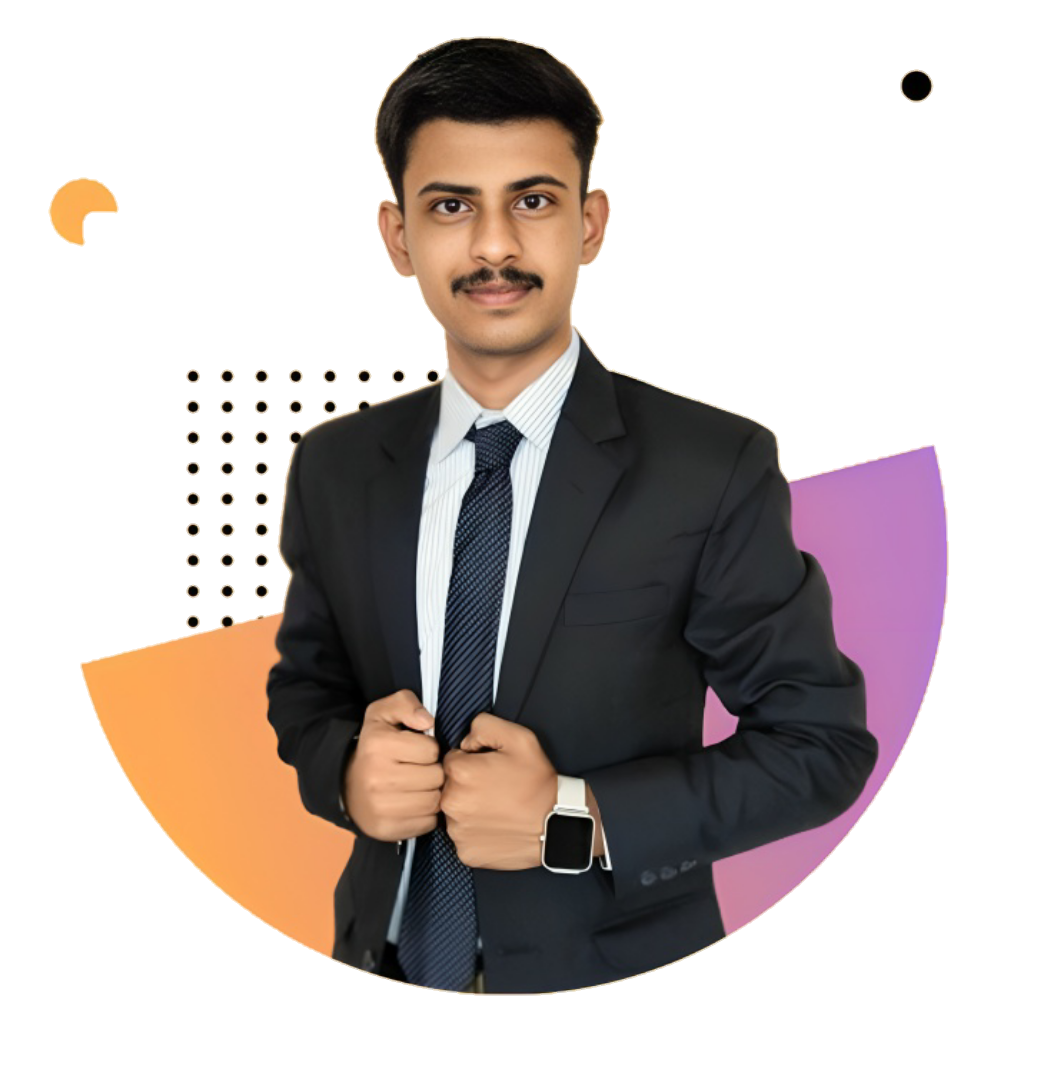
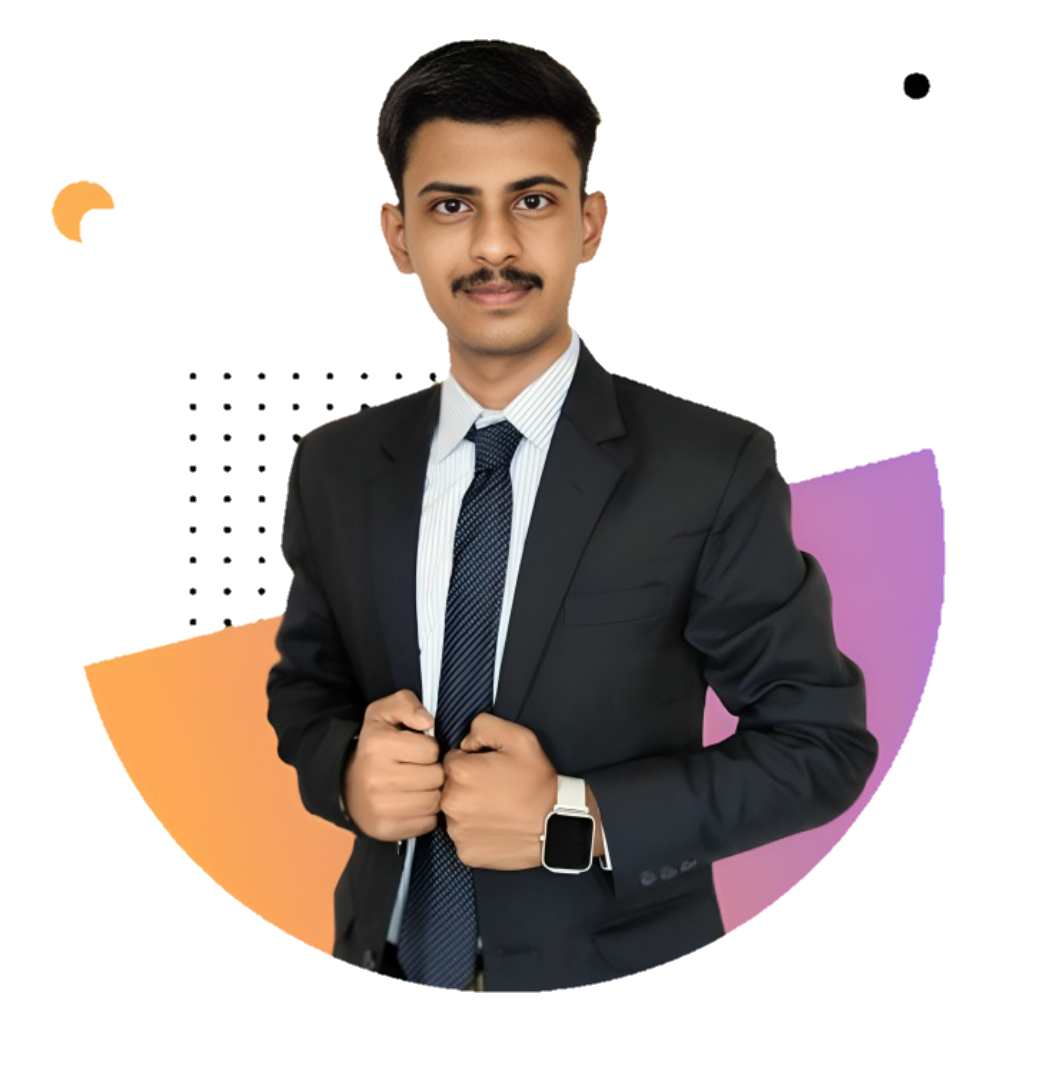
.

diff --git a/src/Components/Header.jsx b/src/Components/Header.jsx
@@ -1,27 +1,52 @@
-import React from 'react'
+import React, { useState } from 'react';
 import { FaBarsStaggered } from "react-icons/fa6";
+import { IoIosArrowForward } from "react-icons/io";
+import { FaGithub } from "react-icons/fa6";
+import { FaLinkedin } from "react-icons/fa";
+import { FaXTwitter } from "react-icons/fa6";  
+import { FaInstagram } from "react-icons/fa";
 function Header() {
+    const [menu, setMenu] = useState(false);
+
+    const handleMenuToggle = () => {
+        setMenu(!menu);
+    };
+
     return (
-        <div className='w-full  backdrop-blur-2xl   h-14 fixed z-50 flex justify-between items-center px-10 md:px-20 text-2xl border-b-[1px] border-gray-500' >
+        <div className='w-full backdrop-blur-2xl h-14 fixed z-50 flex justify-between items-center px-10 md:px-20 text-2xl border-b-[1px] border-gray-500'>
             <div>
-                <h1 className='text-white'>Rohit </h1>
+                <h1 className='text-white'>Rohit</h1>
             </div>
-            <div className=' gap-7 grid-cols-4 sm:grid hidden'>
 
-                <h1 className='text-white text-lg font-Kanit'>Home</h1>
-                <h1 className='text-white text-lg font-Kanit'>Skills</h1>
-                <h1 className='text-white text-lg font-Kanit'>Projects</h1>
-                <h1 className='text-white text-lg font-Kanit'>Contact</h1>
-              
-               
-
+            <div className='gap-7 grid-cols-4 sm:grid hidden'>
+                <h1 className='text-white text-lg font-Kanit cursor-pointer'>Home</h1>
+                <h1 className='text-white text-lg font-Kanit cursor-pointer'>Skills</h1>
+                <h1 className='text-white text-lg font-Kanit cursor-pointer'>Projects</h1>
+                <h1 className='text-white text-lg font-Kanit cursor-pointer'>Contact</h1>
             </div>
+
+
             <div className='sm:hidden'>
-            <FaBarsStaggered className='text-white' />
+                <FaBarsStaggered onClick={handleMenuToggle} className='text-white cursor-pointer' />
+                <div className={`${menu ? "flex flex-col justify-between" : "hidden"} md:hidden absolute bg-white text-black h-screen top-0 right-0 w-[70vw] p-5`}>
+                    <div>
+                        <IoIosArrowForward className='ml-2 mb-2 text-blue-500' onClick={handleMenuToggle} />
+                        <h1 onClick={handleMenuToggle} className='px-4 py-1 text-lg  font-Kanit cursor-pointer mb-5 border-b-2  '>Home</h1>
+                        <h1 onClick={handleMenuToggle} className='px-4 py-1 text-lg  font-Kanit cursor-pointer mb-5 border-b-2  '>Home</h1>
+                        <h1 onClick={handleMenuToggle} className='px-4 py-1 text-lg  font-Kanit cursor-pointer mb-5 border-b-2  '>Home</h1>
+                        <h1 onClick={handleMenuToggle} className='px-4 py-1 text-lg  font-Kanit cursor-pointer mb-5 border-b-2  '>Home</h1>
+                    </div>
+                    <div className='flex gap-2 items-center mt-2 px-4 mb-4 text-black'>
+                        <a href="https://github.com/Rohitmali9421"><FaGithub className='text-2xl ' /></a>
+                        <a href="https://www.linkedin.com/in/rohit-mali7569/"><FaLinkedin className='text-2xl ' /></a>
+                        <a href="https://twitter.com/rohitma13641165#"><FaXTwitter className='text-2xl ' /></a>
+                        <a href="#"><FaInstagram className='text-2xl ' /></a>
+                    </div>
+
+                </div>
             </div>
         </div>
-
-    )
+    );
 }
 
-export default Header
+export default Header;

diff --git a/src/Components/AboutMe.jsx b/src/Components/AboutMe.jsx
@@ -46,8 +46,8 @@ function AboutMe() {
                     </div>
 
                 </div>
-                <div className='md:col-span-2' data-aos="fade-up">
-                    <img className="w-full px-8 md:px-0 pt-3 md:pt-0" src={Rohit} alt="" />
+                <div className='md:col-span-2 p-0 md:p-4' data-aos="fade-up">
+                    <img className="w-full  px-8 md:px-0 pt-3 md:pt-0  " style={{borderRadius:`30% 70% 70% 30% / 30% 30% 70% 70% `}}  src={Rohit} alt="" />
                 </div>
             </div >
             
